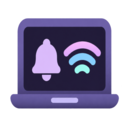
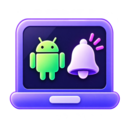
chore: Refresh LocalBell branding assets

diff --git a/README.md b/README.md
@@ -3,7 +3,7 @@
 </p>
 
 <h1 align="center">LocalBell</h1>
-<p align="center"><strong>Version 1.4.20</strong></p>
+<p align="center"><strong>Version 1.4.21</strong></p>
 
 <p align="center"><strong>Forward Android notifications to your Linux desktop.</strong></p>
 
